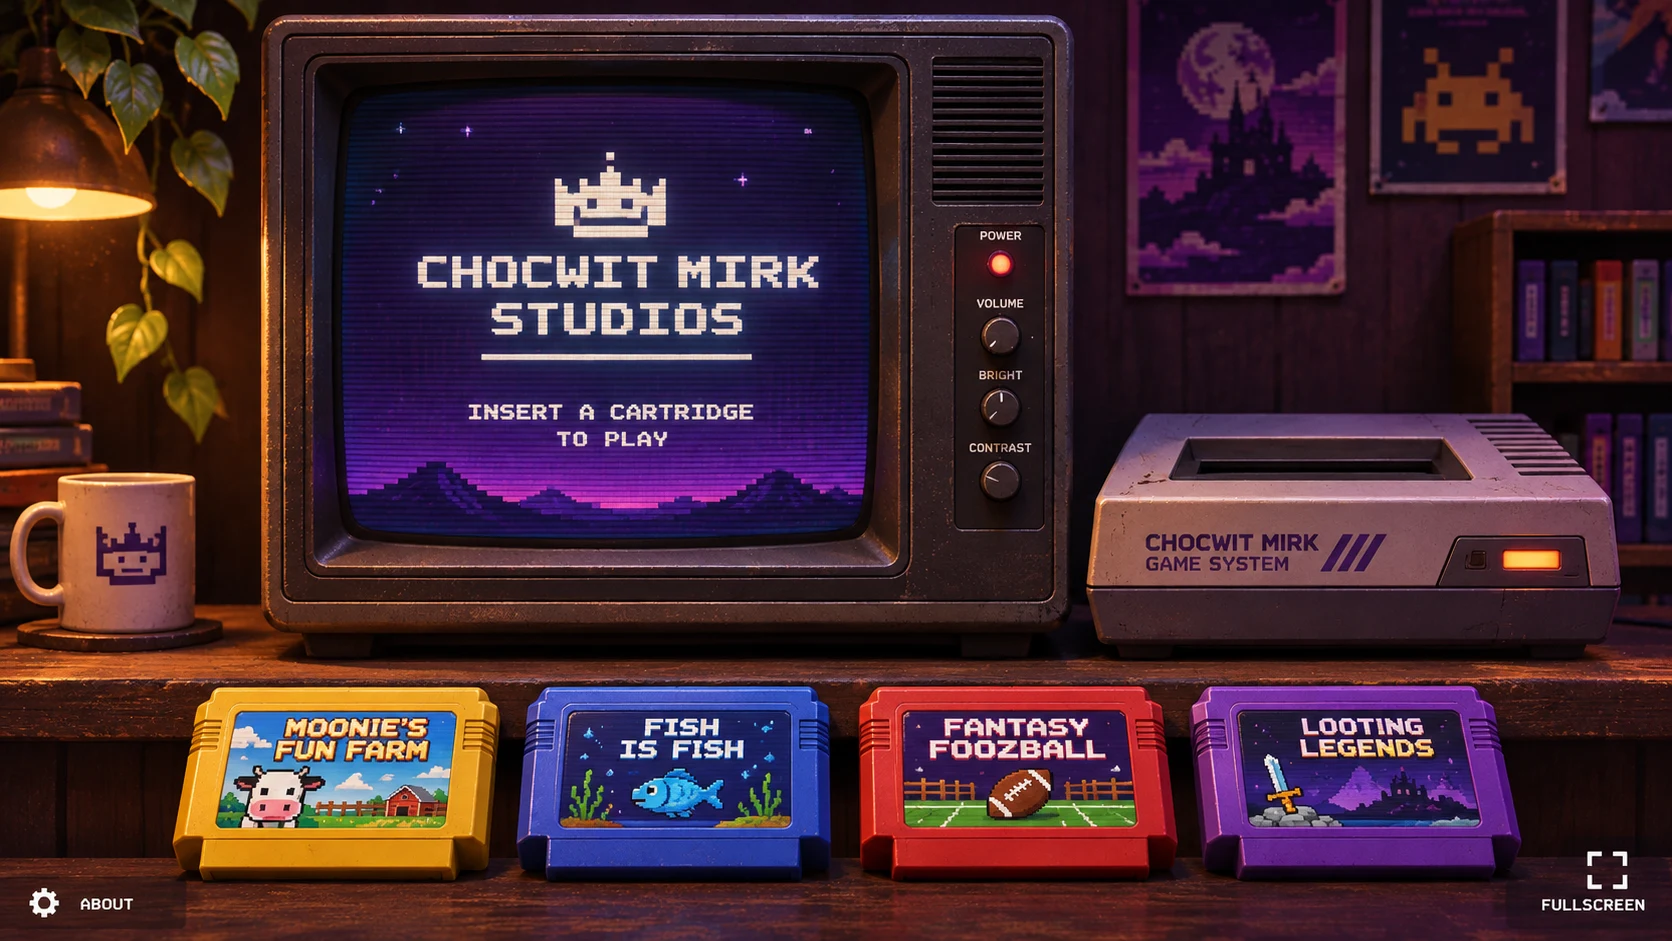
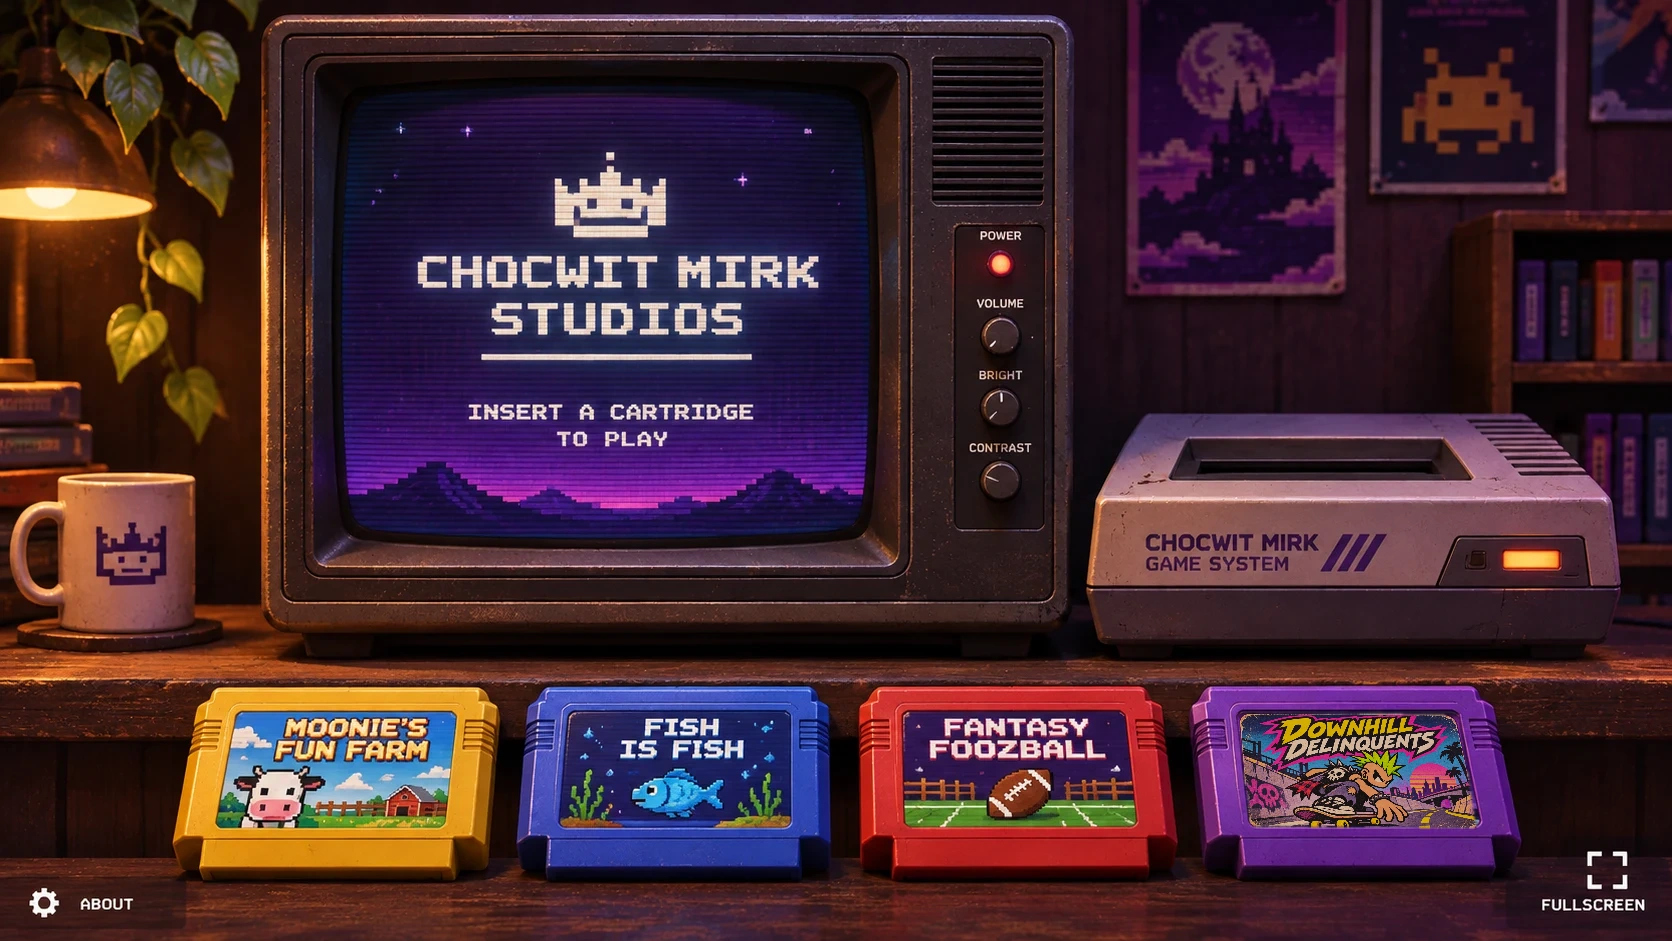
Add files via upload

Changed region(s): [[0.7153, 0.7396, 0.9019, 0.8937]]

diff --git a/index.html b/index.html
@@ -10,7 +10,7 @@
 <main>
 <section class="arcade" aria-label="Interactive retro arcade gaming room">
   <div class="desktop-scene">
-    <img src="assets/arcade-room.webp" alt="Vintage CRT television next to a custom Chocwit Mirk game console and four colorful cartridges" draggable="false" fetchpriority="high">
+    <img src="assets/arcade-room.webp?v=downhill-art-2" alt="Vintage CRT television next to a custom Chocwit Mirk game console and four colorful cartridges" draggable="false" fetchpriority="high">
     <div class="desktop-tv-screen tv-screen" id="desktopScreen" role="region" aria-label="TV game screen">
       <div class="screen-content" id="desktopContent"><div class="idle"><div class="pixel-ghost">▦</div><strong>CHOCWIT MIRK<br>STUDIOS</strong><div class="rule"></div><p>INSERT A CARTRIDGE<br>TO PLAY</p></div></div>
       <div class="scanlines" aria-hidden="true"></div><div class="static-effect" aria-hidden="true"></div>
@@ -18,7 +18,6 @@
     <button class="scene-hit moonie-hit" data-game="moonies" aria-label="Play Moonie's Fun Farm"></button>
     <button class="scene-hit fish-hit" data-game="fish" aria-label="Play Fish Is Fish"></button>
     <button class="scene-hit fooz-hit" data-game="foozball" aria-label="Play Fantasy Foozball"></button>
-    <div class="downhill-sticker" aria-hidden="true"><span>DOWNHILL<br>DELINQUENTS</span></div>
     <button class="scene-hit loot-hit" data-game="downhill" aria-label="Play Downhill Delinquents"></button>
     <button class="scene-hit console-hit" id="consoleHit" aria-label="Eject game cartridge" title="Eject cartridge"></button>
     <button class="screen-fs desktop-fs" id="desktopFullscreen" aria-label="Play in fullscreen">⛶ <span>FULLSCREEN</span></button>
@@ -38,7 +37,7 @@
     <button class="mobile-cart" data-game="moonies"><img src="assets/moonies.webp" alt=""/><span>MOONIE'S FUN FARM</span></button>
     <button class="mobile-cart" data-game="fish"><img src="assets/fish.webp" alt=""/><span>FISH IS FISH</span></button>
     <button class="mobile-cart" data-game="foozball"><img src="assets/foozball.webp" alt=""/><span>FANTASY FOOZBALL</span></button>
-    <button class="mobile-cart downhill-mobile" data-game="downhill"><span class="downhill-mobile-art"><img src="assets/looting.webp" alt=""/><span class="downhill-mobile-sticker">DOWNHILL<br>DELINQUENTS</span></span><span>DOWNHILL DELINQUENTS</span></button>
+    <button class="mobile-cart downhill-mobile" data-game="downhill"><img src="assets/downhill.webp?v=downhill-art-2" alt=""/><span>DOWNHILL DELINQUENTS</span></button>
   </div>
   <p class="desktop-helper">Click a cartridge in the scene above, or use <kbd>1</kbd>–<kbd>4</kbd> to select a game. <kbd>F</kbd> fullscreen · <kbd>E</kbd> eject.</p>
 </section>

diff --git a/styles.css b/styles.css
@@ -4,11 +4,3 @@
 @media (min-width:801px) and (max-width:1100px){.control-strip{padding:12px}.now-playing{font-size:11px}.control-actions button{font-size:10px;padding:9px}.brand-tag{display:none}}@media(prefers-reduced-motion:reduce){*,*:before,*:after{animation-duration:.001ms!important;scroll-behavior:auto!important;transition-duration:.001ms!important}}
 /* Enlarged game fills fullscreen container with no crop */
 .tv-screen:fullscreen,.tv-screen:-webkit-full-screen{width:100vw!important;height:100dvh!important;left:0!important;top:0!important;border-radius:0!important;transform:none!important;background:#000!important}.tv-screen:fullscreen .screen-content,.tv-screen:-webkit-full-screen .screen-content{background:#000}.tv-screen:fullscreen:after,.tv-screen:-webkit-full-screen:after,.tv-screen:fullscreen .scanlines,.tv-screen:-webkit-full-screen .scanlines{display:none}
-
-/* Downhill Delinquents fourth cartridge: new title sticker over the original scene art. */
-.downhill-sticker{position:absolute;left:74.6%;top:76.2%;width:11.7%;height:7.4%;z-index:8;pointer-events:none;display:grid;place-items:center;transform:rotate(-1deg);border-radius:5px;background:linear-gradient(145deg,#30215a,#160e37 75%);border:2px solid #7650a7;box-shadow:0 0 0 2px #21123b,0 3px 5px #000a;text-align:center;}
-.downhill-sticker span{font-family:Impact,'Arial Black',sans-serif;font-weight:900;letter-spacing:.025em;font-size:clamp(8px,1.35vw,20px);line-height:.95;color:#ffd369;text-shadow:2px 2px #ad3a65,-1px -1px #101025;}
-.downhill-mobile-art{display:block;position:relative;width:100%;max-width:225px;}
-.downhill-mobile-art img{width:100%;max-width:none;}
-.downhill-mobile-sticker{position:absolute;left:19%;top:29%;width:63%;height:39%;background:linear-gradient(145deg,#30215a,#160e37);border:2px solid #7650a7;border-radius:5px;display:grid;place-items:center;color:#ffd369;font-family:Impact,'Arial Black',sans-serif;font-size:clamp(11px,3vw,18px)!important;font-weight:900;line-height:1;text-shadow:2px 2px #ad3a65;text-align:center;transform:rotate(-1deg);}
-@media(max-width:800px){.downhill-sticker{display:none}}

diff --git a/README.md b/README.md
@@ -1,17 +1,11 @@
-# Downhill Delinquents cartridge update — Chocwit Mirk Arcade V3
+# Downhill Delinquents — integrated cartridge artwork fix
 
-This update replaces the fourth **Looting Legends** cartridge with **Downhill Delinquents** while keeping the three already working games untouched.
+This changes ONLY the fourth cartridge appearance. The artwork is baked into a replacement arcade-room image, not a CSS label overlay. Mobile gets a matching cartridge image.
 
-## Upload to GitHub
+## Install
+1. In your existing ChocwitMirk/ChocwitMirk repository, upload the **contents** of this folder to the root.
+2. Replace `index.html` and `styles.css`, and upload `assets/arcade-room.webp` and `assets/downhill.webp` to `assets/`.
+3. Commit the changes. Do not remove your existing `app.js`, `games/` or `CNAME`.
+4. Reload the site with Ctrl+Shift+R after successful GitHub Pages deployment.
 
-At https://github.com/ChocwitMirk/ChocwitMirk, upload the CONTENTS of this folder to the repository root, not the outer folder. Upload the `index.html`, `app.js`, `styles.css`, and `games/downhill-delinquents/index.html`. Existing image files in `assets/` are unchanged and do not need reuploading. Keep the original `CNAME`.
-
-**Important:** This ZIP contains ONLY launcher files and the new game's placeholder. It deliberately does not include the three other games, so it cannot overwrite your current playable builds.
-
-## Add the real game
-
-Replace `games/downhill-delinquents/index.html` with the latest working Downhill Delinquents HTML. For a self-contained build that's all you need; if it references other local files, upload those with the same relative paths.
-
-After confirming the new cartridge works, you can delete the unused `games/looting-legends/` folder. Leave the three other game folders alone.
-
-The fourth cartridge's text is drawn as an overlay atop the existing purple cartridge artwork (the actual background image has not been changed). For a completely new cartridge illustration, we'll replace that image asset in a later visual update.
+The Downhill Delinquents game URL remains `games/downhill-delinquents/` and your other games remain unchanged.
